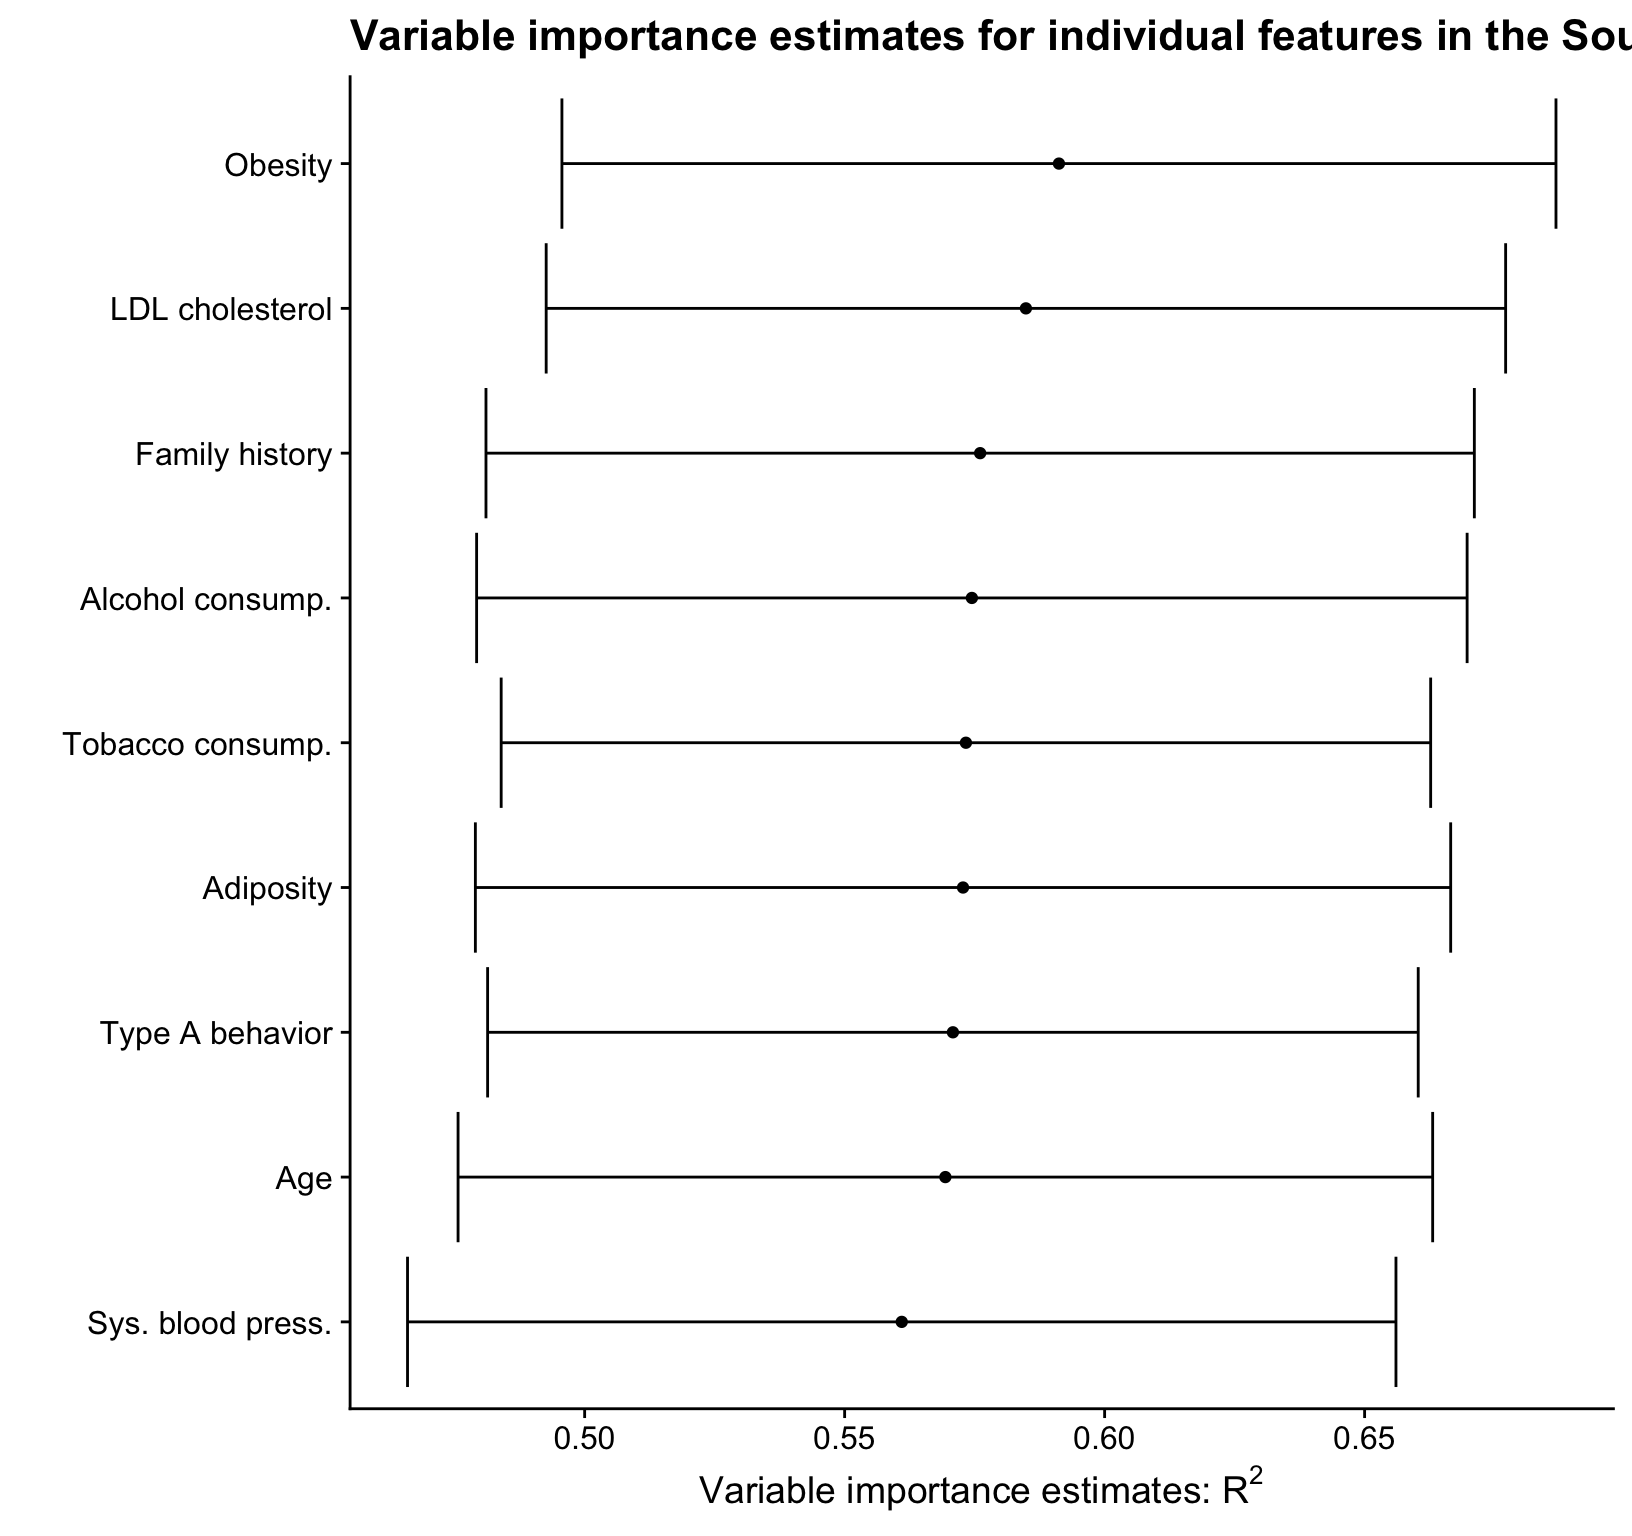
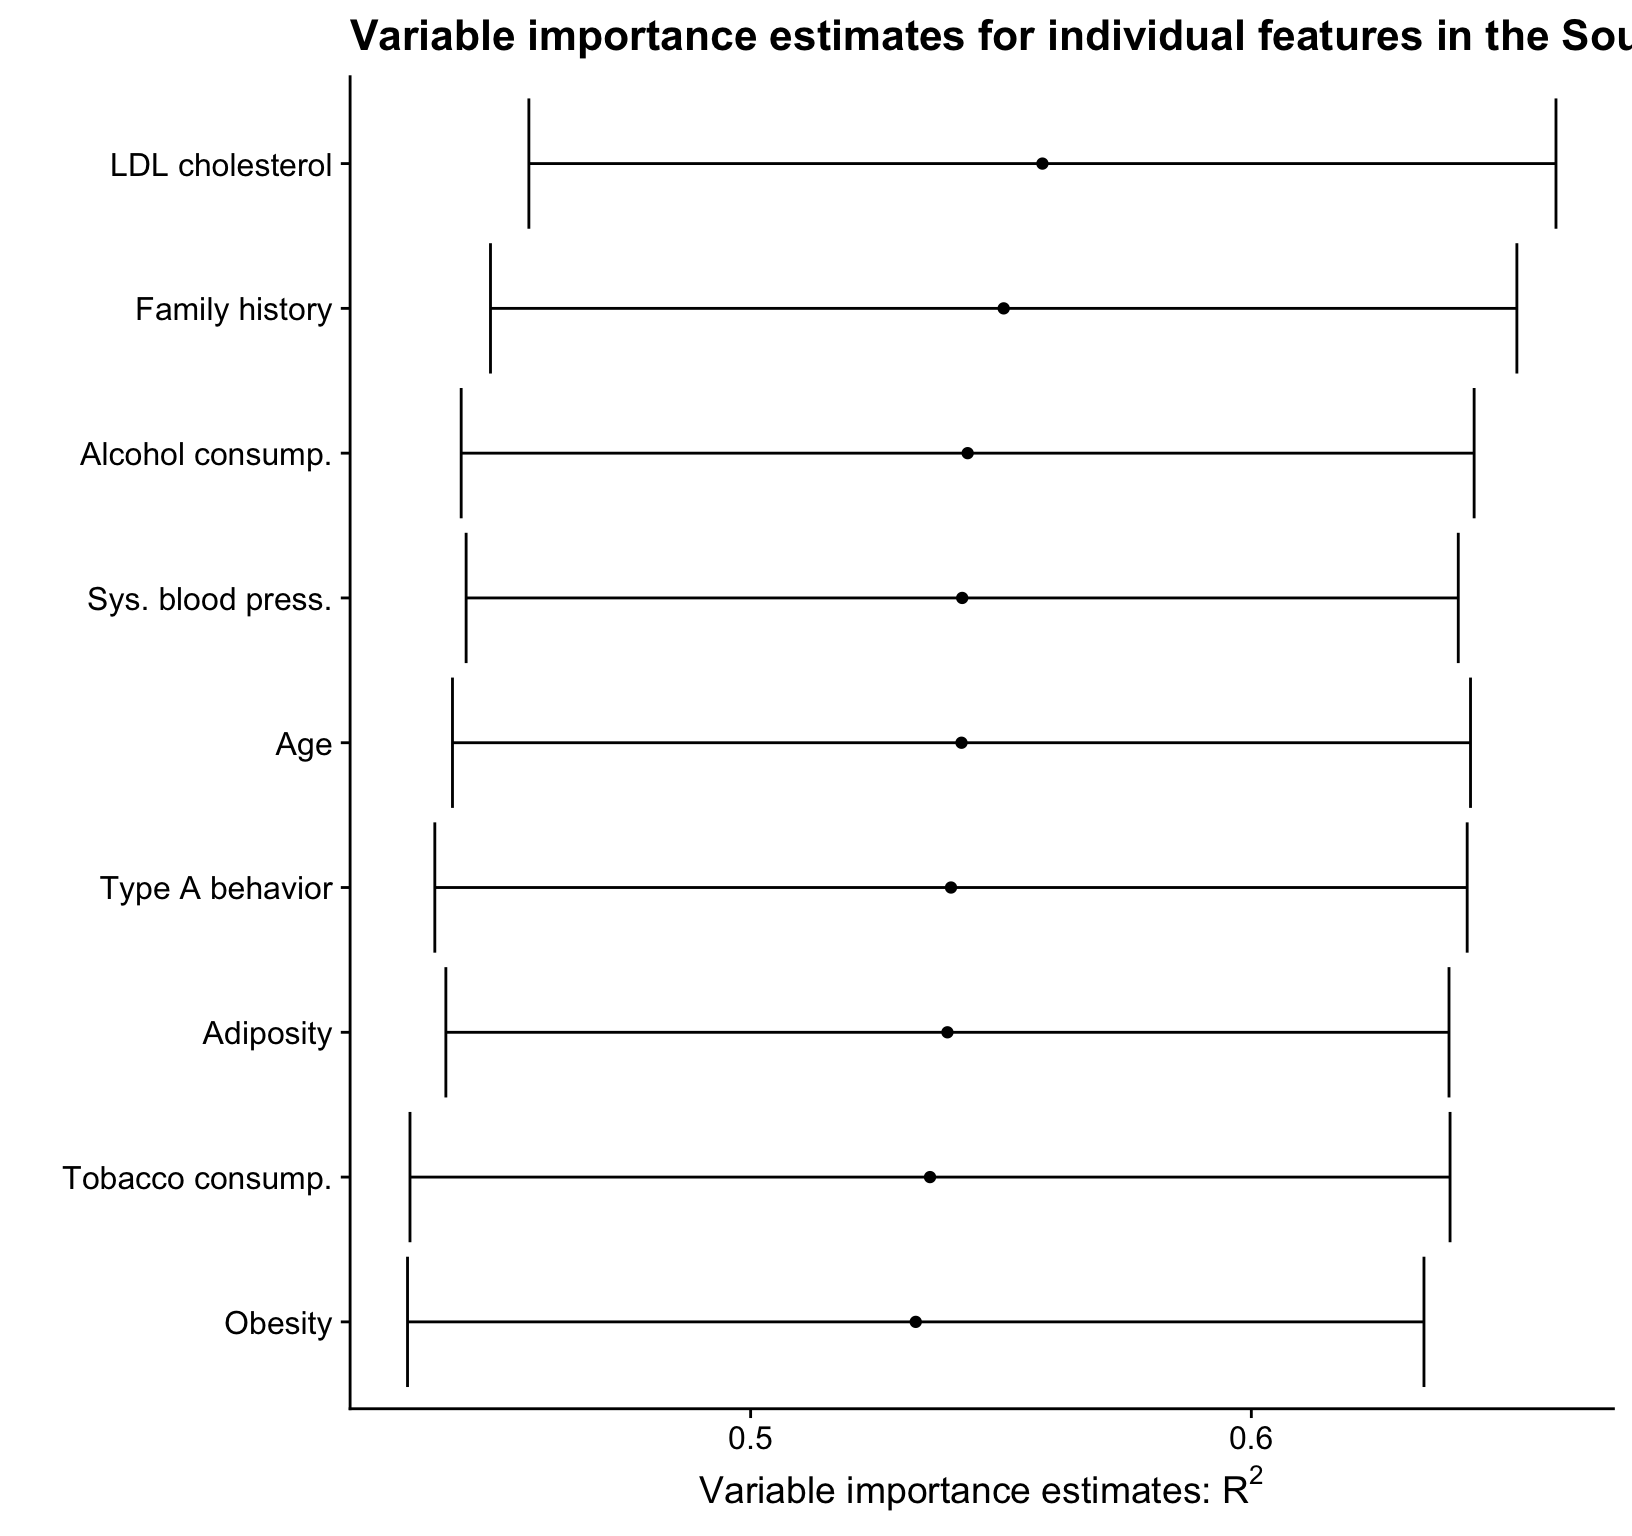
Built site for vimp: 2.0.1@be0f2cc

diff --git a/articles/introduction_to_vimp.html b/articles/introduction_to_vimp.html
@@ -169,8 +169,8 @@
 ##     alpha = alpha, delta = delta, na.rm = na.rm, env = ..1)
 ## 
 ## Variable importance estimates:
-##       Estimate  SE         95% CI                  VIMP &gt; 0 p-value
-## s = 1 0.1021547 0.04421819 [0.01548863, 0.1888207] NA       NA</code></pre>
+##       Estimate   SE        95% CI         VIMP &gt; 0 p-value
+## s = 1 0.07481467 0.0473697 [0, 0.1676576] NA       NA</code></pre>
 <div class="sourceCode" id="cb18"><html><body><pre class="r"><span class="fu"><a href="https://rdrr.io/r/base/print.html">print</a></span>(<span class="no">est_1</span>)</pre></body></html></div>
 <pre><code>## Call:
 ## cv_vim(Y = Y, X = X, f1 = f1, f2 = f2, indx = indx, V = V, folds = folds, 
@@ -179,9 +179,9 @@
 ##     alpha = alpha, delta = delta, na.rm = na.rm, env = ..1)
 ## 
 ## Variable importance estimates:
-##       Estimate  SE         95% CI                  VIMP &gt; 0 p-value
-## s = 1 0.1021547 0.04421819 [0.01548863, 0.1888207] NA       NA</code></pre>
-<p>This output shows that we have estimated the importance of <span class="math inline">\(X_1\)</span> to be 0.102, with a 95% confidence interval of [0.015, 0.189].</p>
+##       Estimate   SE        95% CI         VIMP &gt; 0 p-value
+## s = 1 0.07481467 0.0473697 [0, 0.1676576] NA       NA</code></pre>
+<p>This output shows that we have estimated the importance of <span class="math inline">\(X_1\)</span> to be 0.075, with a 95% confidence interval of [0, 0.168].</p>
 </div>
 <div id="detailed-guide" class="section level2">
 <h2 class="hasAnchor">
@@ -280,15 +280,15 @@
 ## 
 ## Variable importance estimates:
 ##       Estimate  SE         95% CI                 VIMP &gt; 0 p-value     
-## s = 5 0.2164306 0.04653863 [0.1252166, 0.3076447] TRUE     1.384343e-06
-## s = 6 0.2152644 0.04558395 [0.1259215, 0.3046073] TRUE     1.243058e-06
-## s = 9 0.2125764 0.04665696 [0.1211304, 0.3040223] TRUE     2.082117e-06
-## s = 3 0.2088830 0.04630752 [0.1181219, 0.2996441] TRUE     3.113840e-06
-## s = 7 0.2082137 0.04653870 [0.1169996, 0.2994279] TRUE     3.307587e-06
-## s = 2 0.2064363 0.04634361 [0.1156045, 0.2972681] TRUE     4.128700e-06
-## s = 4 0.2040386 0.04648185 [0.1129359, 0.2951414] TRUE     5.177672e-06
-## s = 1 0.1975052 0.04626481 [0.1068279, 0.2881826] TRUE     8.895813e-06
-## s = 8 0.1969613 0.04637183 [0.1060742, 0.2878484] TRUE     9.688207e-06</code></pre>
+## s = 5 0.2549152 0.05247029 [0.1520754, 0.3577551] TRUE     4.076173e-07
+## s = 3 0.2515622 0.05269242 [0.1482870, 0.3548375] TRUE     5.540804e-07
+## s = 2 0.2478583 0.05275460 [0.1444612, 0.3512554] TRUE     9.017346e-07
+## s = 7 0.2442281 0.05273628 [0.1408669, 0.3475893] TRUE     1.256250e-06
+## s = 6 0.2433093 0.05287028 [0.1396854, 0.3469331] TRUE     1.356326e-06
+## s = 4 0.2413840 0.05246017 [0.1385640, 0.3442041] TRUE     1.557520e-06
+## s = 1 0.2376879 0.05118374 [0.1373696, 0.3380062] TRUE     1.798889e-06
+## s = 8 0.2320187 0.05218472 [0.1297386, 0.3342989] TRUE     2.792706e-06
+## s = 9 0.2316110 0.05247832 [0.1287554, 0.3344666] TRUE     3.612677e-06</code></pre>
 </div>
 <div id="building-a-library-of-learners" class="section level3">
 <h3 class="hasAnchor">
@@ -405,24 +405,24 @@
 ## 
 ## Variable importance estimates:
 ##       Estimate  SE         95% CI                 VIMP &gt; 0 p-value
-## s = 5 0.5760633 0.04849073 [0.4810232, 0.6711033] TRUE     0</code></pre>
+## s = 5 0.5505397 0.05229473 [0.4480439, 0.6530354] TRUE     0</code></pre>
 <p>The object returned by <code><a href="../reference/vimp_rsquared.html">vimp_rsquared()</a></code> also contains fitted values from using <code><a href="https://rdrr.io/pkg/SuperLearner/man/SuperLearner.html">SuperLearner()</a></code>; I access these using <code>$full_fit</code> and <code>$red_fit</code>. For example,</p>
 <div class="sourceCode" id="cb33"><html><body><pre class="r"><span class="fu"><a href="https://rdrr.io/r/utils/head.html">head</a></span>(<span class="no">fam_vim</span>$<span class="no">full_fit</span>)</pre></body></html></div>
-<pre><code>##           [,1]
-## [1,] 0.3517241
-## [2,] 0.7430760
-## [3,] 0.4227778
-## [4,] 0.5694354
-## [5,] 0.6792501
-## [6,] 0.7223281</code></pre>
+<pre><code>##              [,1]
+## [1,]  0.762593746
+## [2,]  0.785878241
+## [3,]  0.143822700
+## [4,]  0.706990957
+## [5,]  0.003004104
+## [6,] -0.158140898</code></pre>
 <div class="sourceCode" id="cb35"><html><body><pre class="r"><span class="fu"><a href="https://rdrr.io/r/utils/head.html">head</a></span>(<span class="no">fam_vim</span>$<span class="no">red_fit</span>)</pre></body></html></div>
 <pre><code>##           [,1]
-## [1,] 0.3957498
-## [2,] 0.3771735
-## [3,] 0.4704211
-## [4,] 0.5266304
-## [5,] 0.3360682
-## [6,] 0.4159873</code></pre>
+## [1,] 0.4173273
+## [2,] 0.3762044
+## [3,] 0.3527748
+## [4,] 0.4732416
+## [5,] 0.1615727
+## [6,] 0.2076500</code></pre>
 <p>I said earlier that I want to obtain estimates of all individual features in these data, so let’s choose type A behavior (<code>tpa</code>) next. Now that I have estimated variable importance for family history, the <code>full_fit</code> object contains our estimate of <span class="math inline">\(\mu_{P_0}\)</span>. Since I have spent the time to estimate this using <code><a href="https://rdrr.io/pkg/SuperLearner/man/SuperLearner.html">SuperLearner()</a></code>, there is no reason to estimate this function again. This leads me to choose (2) above for estimating the importance of type A behavior, since I have already estimated variable importance on one feature in this dataset. Using the small learners library (again only for illustration) yields</p>
 <div class="sourceCode" id="cb37"><html><body><pre class="r"><span class="co">## specify that full_fit doesn't change</span>
 <span class="no">full_fit</span> <span class="kw">&lt;-</span> <span class="no">fam_vim</span>$<span class="no">full_fit</span>
@@ -438,8 +438,8 @@
 ##     run_regression = FALSE, folds = heart_folds)
 ## 
 ## Variable importance estimates:
-##       Estimate  SE         95% CI                 VIMP &gt; 0 p-value
-## s = 6 0.5708243 0.04565667 [0.4813389, 0.6603097] TRUE     0</code></pre>
+##       Estimate  SE         95% CI               VIMP &gt; 0 p-value
+## s = 6 0.5400176 0.05259913 [0.4369251, 0.64311] TRUE     0</code></pre>
 <p>This takes approximately 5 seconds — now rather than estimating both conditional means, I am only estimating one.</p>
 <p>If I choose (2), then I have to use a single method from the library, or call <code><a href="https://rdrr.io/pkg/SuperLearner/man/SuperLearner.html">SuperLearner()</a></code> myself, prior to estimating variable importance. Then <code><a href="../reference/vim.html">vim()</a></code> returns variable importance estimates based on these fitted values. For example, let’s estimate variable importance for current alcohol consumption using this approach.</p>
 <div class="sourceCode" id="cb39"><html><body><pre class="r"><span class="co">## set up the data, removing the columns for alcohol use and chd</span>
